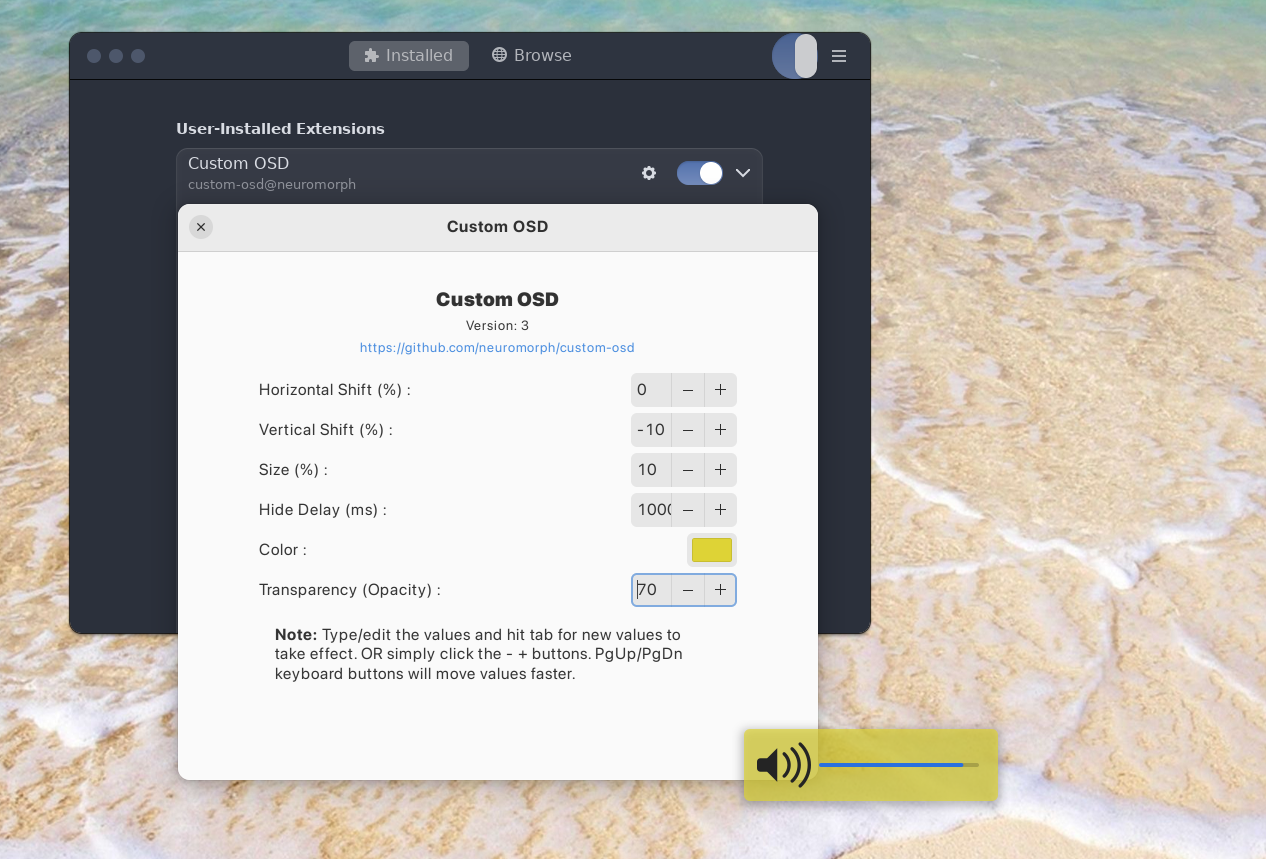
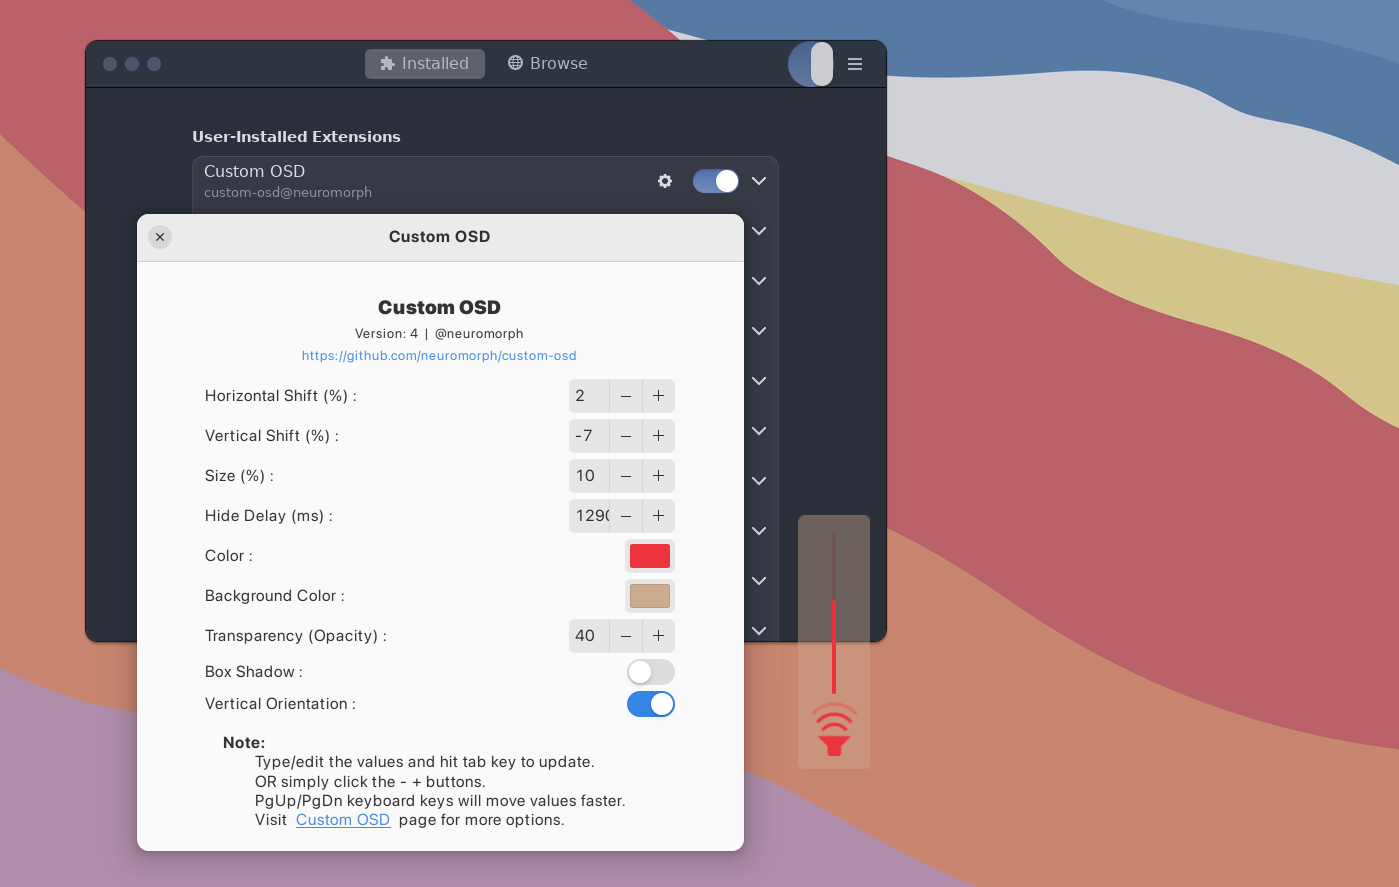
new features and efficiency+

diff --git a/prefs.js b/prefs.js
@@ -23,7 +23,7 @@ const CustomOSDSettingsWidget = new GObject.registerClass(
   class CustomOSDSettingsWidget extends Gtk.Grid {
     _init(params) {
       super._init(params);
-      this.margin_top = 12;
+      this.margin_top = 10;
       this.margin_bottom = this.margin_top;
       this.margin_start = 48;
       this.margin_end = this.margin_start;
@@ -50,7 +50,7 @@ const CustomOSDSettingsWidget = new GObject.registerClass(
       this.version_label = new Gtk.Label({
         use_markup: true,
         label: '<span size="small">'+_('Version:')
-      + ' ' + Me.metadata.version + '</span>',
+      + ' ' + Me.metadata.version + '  |  @neuromorph</span>',
         hexpand: true,
         halign: Gtk.Align.CENTER,
       });
@@ -132,7 +132,7 @@ const CustomOSDSettingsWidget = new GObject.registerClass(
 
       this.sizePercentage = new Gtk.SpinButton({halign: Gtk.Align.END});
       this.sizePercentage.set_sensitive(true);
-      this.sizePercentage.set_range(0, 100);
+      this.sizePercentage.set_range(1, 100);
       this.sizePercentage.set_value(10);
       this.sizePercentage.set_value(this._settings.get_int("size"));
       this.sizePercentage.set_increments(1, 5);
@@ -221,7 +221,40 @@ const CustomOSDSettingsWidget = new GObject.registerClass(
       //-------------------------------------------------------
 
       rowNo += 2
-      let labelAlpha = _("Transparency (Opacity) :");
+
+      this.bgcolorBtn = new Gtk.ColorButton({halign: Gtk.Align.END});
+      let bgcolorArray = this._settings.get_strv('bgcolor');
+  		let bgrgba = new Gdk.RGBA();
+      bgrgba.red = parseFloat(bgcolorArray[0]);
+      bgrgba.green = parseFloat(bgcolorArray[1]);
+      bgrgba.blue = parseFloat(bgcolorArray[2]);
+      bgrgba.alpha = 1.0;
+      this.bgcolorBtn.set_rgba(bgrgba);
+
+      this.bgcolorBtn.connect('color-set', (widget) => {
+        bgrgba = widget.get_rgba();
+        this._settings.set_strv('bgcolor', [
+          bgrgba.red.toString(),
+          bgrgba.green.toString(),
+          bgrgba.blue.toString()
+        ]);
+      });
+
+
+      this.bgcolorLabel = new Gtk.Label({
+        label: "Background Color :",
+        use_markup: true,
+        halign: Gtk.Align.START,
+      });
+
+
+      this.attach(this.bgcolorLabel, 1, rowNo, 1, 1);
+      this.attach(this.bgcolorBtn, 2, rowNo, 1, 1);
+
+      //-------------------------------------------------------
+
+      rowNo += 2
+      let labelAlpha = _("Transparency (Opacity %) :");
 
       this.alpha = new Gtk.SpinButton({halign: Gtk.Align.END});
       this.alpha.set_sensitive(true);
@@ -249,21 +282,72 @@ const CustomOSDSettingsWidget = new GObject.registerClass(
 
       //-------------------------------------------------------
 
+      rowNo += 2
+      let labelShadow = _("Box Shadow :");
+
+      this.shadow = new Gtk.Switch({halign: Gtk.Align.END});
+      this.shadow.set_active(this._settings.get_boolean("shadow"));
+
+      this.shadow.connect(
+        "state-set",
+        function (w) {
+          var value = w.get_active();
+          this._settings.set_boolean("shadow", value);
+        }.bind(this)
+      );
+
+      this.shadowLabel = new Gtk.Label({
+        label: labelShadow,
+        use_markup: true,
+        halign: Gtk.Align.START,
+      });
+
+      this.attach(this.shadowLabel, 1, rowNo, 1, 1);
+	    this.attach(this.shadow, 2, rowNo, 1, 1);
+
+
+      //-------------------------------------------------------
+
+      rowNo += 2
+    
+      this.rotate = new Gtk.Switch({halign: Gtk.Align.END});
+      this.rotate.set_active(this._settings.get_boolean("rotate"));
+
+      this.rotate.connect(
+        "state-set",
+        function (w) {
+          var value = w.get_active();
+          this._settings.set_boolean("rotate", value);
+        }.bind(this)
+      );
+
+      this.rotateLabel = new Gtk.Label({
+        label: "Vertical Orientation :",
+        use_markup: true,
+        halign: Gtk.Align.START,
+      });
+
+      this.attach(this.rotateLabel, 1, rowNo, 1, 1);
+	    this.attach(this.rotate, 2, rowNo, 1, 1);
+
+      //-------------------------------------------------------
+
       rowNo+=2
       this.noteLabel = new Gtk.Label({
         label: `<b>Note:</b> 
-        <span allow_breaks='true'>Type/edit the values and hit tab key to update. 
-        OR simply click the - + buttons.
-        PgUp/PgDn keyboard keys will move values faster.
-        Visit  <a href='${Me.metadata.url}'>Custom OSD</a>  page for more options. </span>`,
+        <span allow_breaks='true'>* Type/edit the values and hit tab key to update. 
+        * OR simply click the - + buttons.
+        * PgUp/PgDn keyboard keys will move values faster.
+        * Visit  <a href='${Me.metadata.url}'>Custom OSD</a>  page for more options. </span>`,
         use_markup: true,
         halign: Gtk.Align.START,
         wrap: true,
         width_chars: 40,
-        margin_top: this.margin_top
+        margin_top: this.margin_top,
+        margin_bottom: this.margin_bottom
       });
 
-      this.attach(this.noteLabel, 1, rowNo, 2, 1);
+      this.attach(this.noteLabel, 1, rowNo, 2, 10);
 
     }
   }

diff --git a/extension.js b/extension.js
@@ -11,7 +11,22 @@ function init() {
 }
 
 
-function style(red, green, blue, alpha) {
+function style(color, bgcolor, alpha, shadow, rotate) {
+
+  let red = parseInt(parseFloat(color[0]) * 255);
+  let green = parseInt(parseFloat(color[1]) * 255);
+  let blue = parseInt(parseFloat(color[2]) * 255);
+  
+  let bgred = parseInt(parseFloat(bgcolor[0]) * 255);
+  let bggreen = parseInt(parseFloat(bgcolor[1]) * 255);
+  let bgblue = parseInt(parseFloat(bgcolor[2]) * 255);
+
+  alpha = parseFloat(alpha/100.0);
+
+  let sty = `background-color: rgba(${bgred},${bggreen},${bgblue},${alpha}); color: rgb(${red},${green},${blue});`; 
+  if (!shadow) sty = sty + ' box-shadow: none;';
+  let levelsty = `-barlevel-active-background-color: rgb(${red},${green},${blue}); background-color: rgba(${red},${green},${blue},0.1);`;
+
   for (
     let monitorIndex = 0;
     monitorIndex < OsdWindowManager._osdWindows.length;
@@ -20,8 +35,14 @@ function style(red, green, blue, alpha) {
     OsdWindowManager._osdWindows[monitorIndex]._hbox.add_style_class_name(
       "osd-style"
     );
-    sty = 'background-color: rgba('+red+','+green+','+blue+','+alpha+');'; 
     OsdWindowManager._osdWindows[monitorIndex]._hbox.style = sty;
+    if (rotate){
+      OsdWindowManager._osdWindows[monitorIndex]._hbox.rotation_angle_z = -90.0;
+    }
+    else {
+      OsdWindowManager._osdWindows[monitorIndex]._hbox.rotation_angle_z = 0;
+    }
+    OsdWindowManager._osdWindows[monitorIndex]._level.style = levelsty;
 
   }
 }
@@ -36,10 +57,12 @@ function unCustom() {
       "osd-style"
     );
     OsdWindowManager._osdWindows[monitorIndex]._hbox.style = '';
+    OsdWindowManager._osdWindows[monitorIndex]._hbox.rotation_angle_z = 0;
+    OsdWindowManager._osdWindows[monitorIndex]._level.style = '';
 
     OsdWindowManager._osdWindows[monitorIndex]._hbox.translation_x = 0;
     OsdWindowManager._osdWindows[monitorIndex]._hbox.translation_y = 0;
-    OsdWindowManager._osdWindows[monitorIndex]._icon.icon_size = _size[monitorIndex];
+    OsdWindowManager._osdWindows[monitorIndex]._icon.icon_size = _size;
 
   }
 }
@@ -62,8 +85,8 @@ function removeInjection(object, injection, name) {
 }
 
 let injections = [];
-let _id;
-let _size = [];
+let _first_run = true;
+let _size;
 
 
 function enable() {
@@ -85,22 +108,20 @@ function enable() {
       OsdWindow.HIDE_TIMEOUT = hide_delay;
       
       let color = _settings.get_strv("color");
-      let red = parseFloat(color[0]);
-      red = parseInt(red*255);
-      let green = parseFloat(color[1]);
-      green = parseInt(green*255);
-      let blue = parseFloat(color[2]);
-      blue = parseInt(blue*255);
+      let bgcolor = _settings.get_strv("bgcolor");
       let alpha = _settings.get_int("alpha");
-      alpha = parseFloat(alpha/100.0);
-      style(red, green, blue, alpha);
+      let shadow = _settings.get_boolean("shadow");
+      let rotate = _settings.get_boolean("rotate");
+      style(color, bgcolor, alpha, shadow, rotate);
 
       this._hbox.translation_x = (h_percent * monitor.width) / 100;
       this._hbox.translation_y = (v_percent * monitor.height) / 100;
 
-      _size.push(this._icon.icon_size);
+      if (_first_run) {
+        _size = this._icon.icon_size;
+        _first_run = false;
+      }
       this._icon.icon_size = (osd_size * monitor.height) / 100 / 2;
-      this._hboxConstraint._minSize = (osd_size * monitor.height) / 100
 
     }
   );

diff --git a/stylesheet.css b/stylesheet.css
@@ -1,10 +1,12 @@
 /* 
     You may use this style class to add more optional styling to OSD. 
     The extension will apply it to OSD elements. 
-    For Color and Transparency, please use the settings panel of Custom-OSD.
+    For most common options like Color, Background, Transparency, Orientation etc. please use the settings panel of Custom-OSD.
 */
 .osd-style {
-    /* padding-top: 1px;
+    /* 
+    padding-top: 1px;
     padding-bottom: 1px;
-    box-shadow: none; */
+    box-shadow: 1px 1px 5px grey; 
+    */   
 }

diff --git a/README.md b/README.md
@@ -2,7 +2,7 @@
 # Custom OSD (GNOME 4X Extension)  
 
 
-A GNOME Shell extension allowing the user to set the position, size, color, transparency and delay of the OSD popup.
+A GNOME Shell extension allowing the user to set the position, orientation, size, color, shadow, transparency and delay of the OSD pop-ups. Fully transform the OSD pop-ups to match your theme and liking!
 
 
 ## Installation
@@ -30,10 +30,19 @@ You may need to restart the gnome shell environnment (for manual install):
 - `alt+f2` then type `r` and `enter` 
 
 ## Settings: 
-Use the settings panel of the extension for Position, Size, Delay-time, Color and Transparency.  
+Use the settings panel of the extension for most common customizations:
+* Position on Screen 
+* Vertical/Horizontal Orientation
+* Size 
+* Hide-Delay time
+* Color and Background
+* Shadow On-Off
+* Transparency
+
+
 
 ## Optional Styling: Shadow, Padding etc.
-For optional styling of Shadow, Padding etc. you will need to edit "spreadsheet.css" file at -  
+For optional styling of Custom-Shadow, Padding etc. you will need to edit "spreadsheet.css" file at -  
 ~/.local/share/gnome-shell/extensions/custom-osd@neuromorph/  
   
 
@@ -42,14 +51,17 @@ Example code:
 .osd-style {
     padding-top: 5px;
     padding-bottom: 5px;
-    box-shadow: none;
+    box-shadow: 1px 1px 5px grey;
 }
 ```
 
 
 ## What's new
+- Improved efficiency and compatibility
+- Added support for Color+BG Color, Shadow and Orientation
 - Settings updated for Color and Transparency
 - Metadata updated for Gnome 44
+- Ported for GNOME 42 + some fixes
 
 
 
@@ -61,4 +73,4 @@ Example code:
 
 ## Acknowledgements
 
-This version is modified from [Better OSD](https://extensions.gnome.org/extension/1345/better-osd/). The original extension is obsolete and forked versions also do not support new OSD modifications in GNOME shell after GNOME 41+. This version ports the old extension to new GNOME mods and adds additional customizations through settings.
+This version is modified from [Better OSD](https://extensions.gnome.org/extension/1345/better-osd/). The original extension is obsolete and forked versions also do not support new OSD modifications in GNOME shell after GNOME 41+. Custom-OSD started with porting the old extension to new GNOME mods but ended up updating most of the code for refinements/bug-fix and new features.
